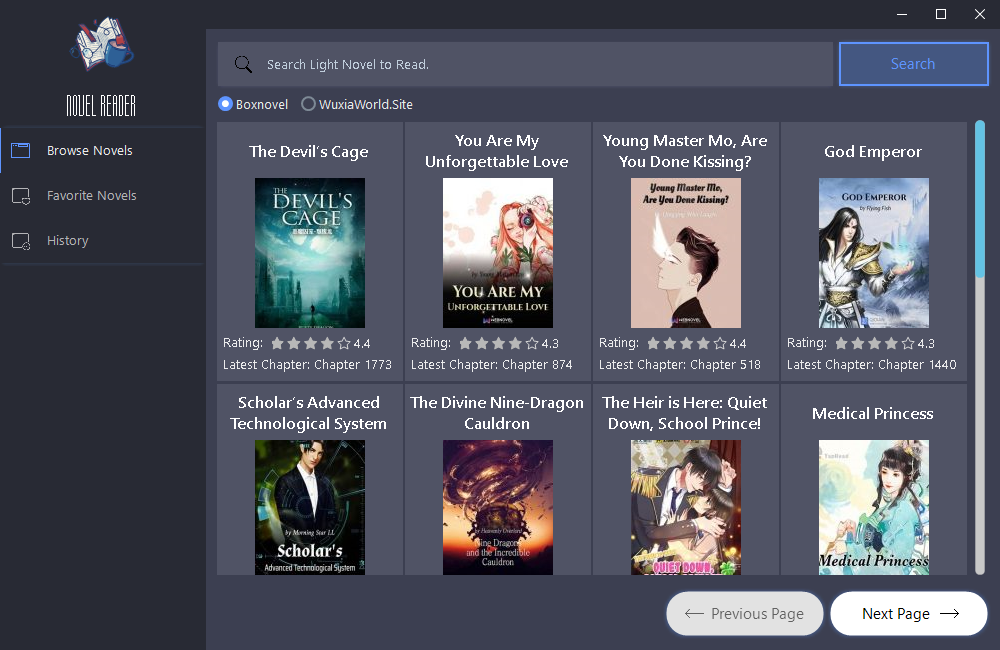
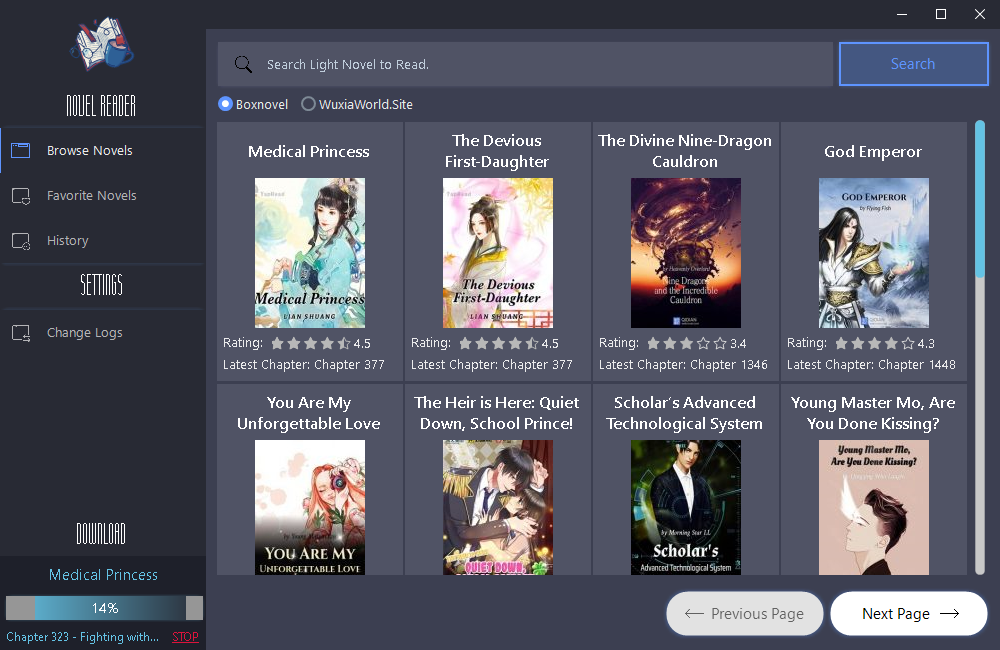
Minor fix

diff --git a/NovelReader/UserControlLibrary/Cards/DownloadCard.Designer.cs b/NovelReader/UserControlLibrary/Cards/DownloadCard.Designer.cs
@@ -33,6 +33,7 @@
             this.guna2ProgressBar1 = new Guna.UI2.WinForms.Guna2ProgressBar();
             this.timer1 = new System.Windows.Forms.Timer(this.components);
             this.label2 = new System.Windows.Forms.Label();
+            this.label3 = new System.Windows.Forms.Label();
             this.SuspendLayout();
             // 
             // label1
@@ -40,9 +41,9 @@
             this.label1.AutoEllipsis = true;
             this.label1.Font = new System.Drawing.Font("Segoe UI", 9F, System.Drawing.FontStyle.Regular, System.Drawing.GraphicsUnit.Point, ((byte)(0)));
             this.label1.ForeColor = System.Drawing.Color.FromArgb(((int)(((byte)(100)))), ((int)(((byte)(194)))), ((int)(((byte)(228)))));
-            this.label1.Location = new System.Drawing.Point(3, 36);
+            this.label1.Location = new System.Drawing.Point(3, 73);
             this.label1.Name = "label1";
-            this.label1.Size = new System.Drawing.Size(200, 37);
+            this.label1.Size = new System.Drawing.Size(160, 15);
             this.label1.TabIndex = 5;
             this.label1.Text = "Starting...";
             this.label1.TextAlign = System.Drawing.ContentAlignment.MiddleCenter;
@@ -53,7 +54,7 @@
             this.guna2ProgressBar1.Font = new System.Drawing.Font("Segoe UI", 10.25F);
             this.guna2ProgressBar1.ForeColor = System.Drawing.Color.White;
             this.guna2ProgressBar1.GradientMode = System.Drawing.Drawing2D.LinearGradientMode.Horizontal;
-            this.guna2ProgressBar1.Location = new System.Drawing.Point(3, 9);
+            this.guna2ProgressBar1.Location = new System.Drawing.Point(6, 40);
             this.guna2ProgressBar1.Name = "guna2ProgressBar1";
             this.guna2ProgressBar1.ProgressColor = System.Drawing.Color.FromArgb(((int)(((byte)(100)))), ((int)(((byte)(194)))), ((int)(((byte)(228)))));
             this.guna2ProgressBar1.ProgressColor2 = System.Drawing.Color.FromArgb(((int)(((byte)(40)))), ((int)(((byte)(42)))), ((int)(((byte)(52)))));
@@ -62,7 +63,7 @@
             this.guna2ProgressBar1.ShadowDecoration.Parent = this.guna2ProgressBar1;
             this.guna2ProgressBar1.ShadowDecoration.Shadow = new System.Windows.Forms.Padding(2);
             this.guna2ProgressBar1.ShowPercentage = true;
-            this.guna2ProgressBar1.Size = new System.Drawing.Size(200, 24);
+            this.guna2ProgressBar1.Size = new System.Drawing.Size(197, 24);
             this.guna2ProgressBar1.Style = System.Windows.Forms.ProgressBarStyle.Marquee;
             this.guna2ProgressBar1.TabIndex = 6;
             this.guna2ProgressBar1.TextRenderingHint = System.Drawing.Text.TextRenderingHint.SystemDefault;
@@ -85,11 +86,24 @@
             this.label2.Text = "STOP";
             this.label2.Click += new System.EventHandler(this.label2_Click);
             // 
+            // label3
+            // 
+            this.label3.AutoEllipsis = true;
+            this.label3.Font = new System.Drawing.Font("Segoe UI", 11F);
+            this.label3.ForeColor = System.Drawing.Color.FromArgb(((int)(((byte)(100)))), ((int)(((byte)(194)))), ((int)(((byte)(228)))));
+            this.label3.Location = new System.Drawing.Point(6, 0);
+            this.label3.Name = "label3";
+            this.label3.Size = new System.Drawing.Size(197, 37);
+            this.label3.TabIndex = 8;
+            this.label3.Text = "{Title}";
+            this.label3.TextAlign = System.Drawing.ContentAlignment.MiddleCenter;
+            // 
             // DownloadCard
             // 
             this.AutoScaleDimensions = new System.Drawing.SizeF(6F, 13F);
             this.AutoScaleMode = System.Windows.Forms.AutoScaleMode.Font;
             this.BackColor = System.Drawing.Color.FromArgb(((int)(((byte)(30)))), ((int)(((byte)(32)))), ((int)(((byte)(42)))));
+            this.Controls.Add(this.label3);
             this.Controls.Add(this.label2);
             this.Controls.Add(this.label1);
             this.Controls.Add(this.guna2ProgressBar1);
@@ -108,5 +122,6 @@
         private Guna.UI2.WinForms.Guna2ProgressBar guna2ProgressBar1;
         private System.Windows.Forms.Timer timer1;
         private System.Windows.Forms.Label label2;
+        private System.Windows.Forms.Label label3;
     }
 }

diff --git a/NovelReader/UserControlLibrary/Cards/DownloadCard.cs b/NovelReader/UserControlLibrary/Cards/DownloadCard.cs
@@ -25,6 +25,7 @@ namespace NovelReader.UserControlLibrary.Cards
             InitializeComponent(); 
             sourcesite = _sourcesite;
             _title = title;
+            label3.Text = _title;
             novelChapters = novelChapterModels;
         }
         private void DownloadCard_Load(object sender, EventArgs e)
@@ -79,7 +80,7 @@ namespace NovelReader.UserControlLibrary.Cards
                 else
                 {
                     myDocument.Close();
-                    UpdateProgress();
+                    UpdateProgress(name);
                     return;
                 }
             }
@@ -93,10 +94,10 @@ namespace NovelReader.UserControlLibrary.Cards
             }
             myDocument.Close();
             GC.Collect();
-            UpdateProgress();
+            UpdateProgress(name);
         }
 
-        void UpdateProgress()
+        void UpdateProgress(string name)
         {
             if (this.guna2ProgressBar1.InvokeRequired || this.label1.InvokeRequired)
             {
@@ -107,7 +108,7 @@ namespace NovelReader.UserControlLibrary.Cards
 
                 this.label1.Invoke(new MethodInvoker(delegate ()
                 {
-                    label1.Text = $"{_title}";
+                    label1.Text = $"{name}";
                 }));
             }
         }
